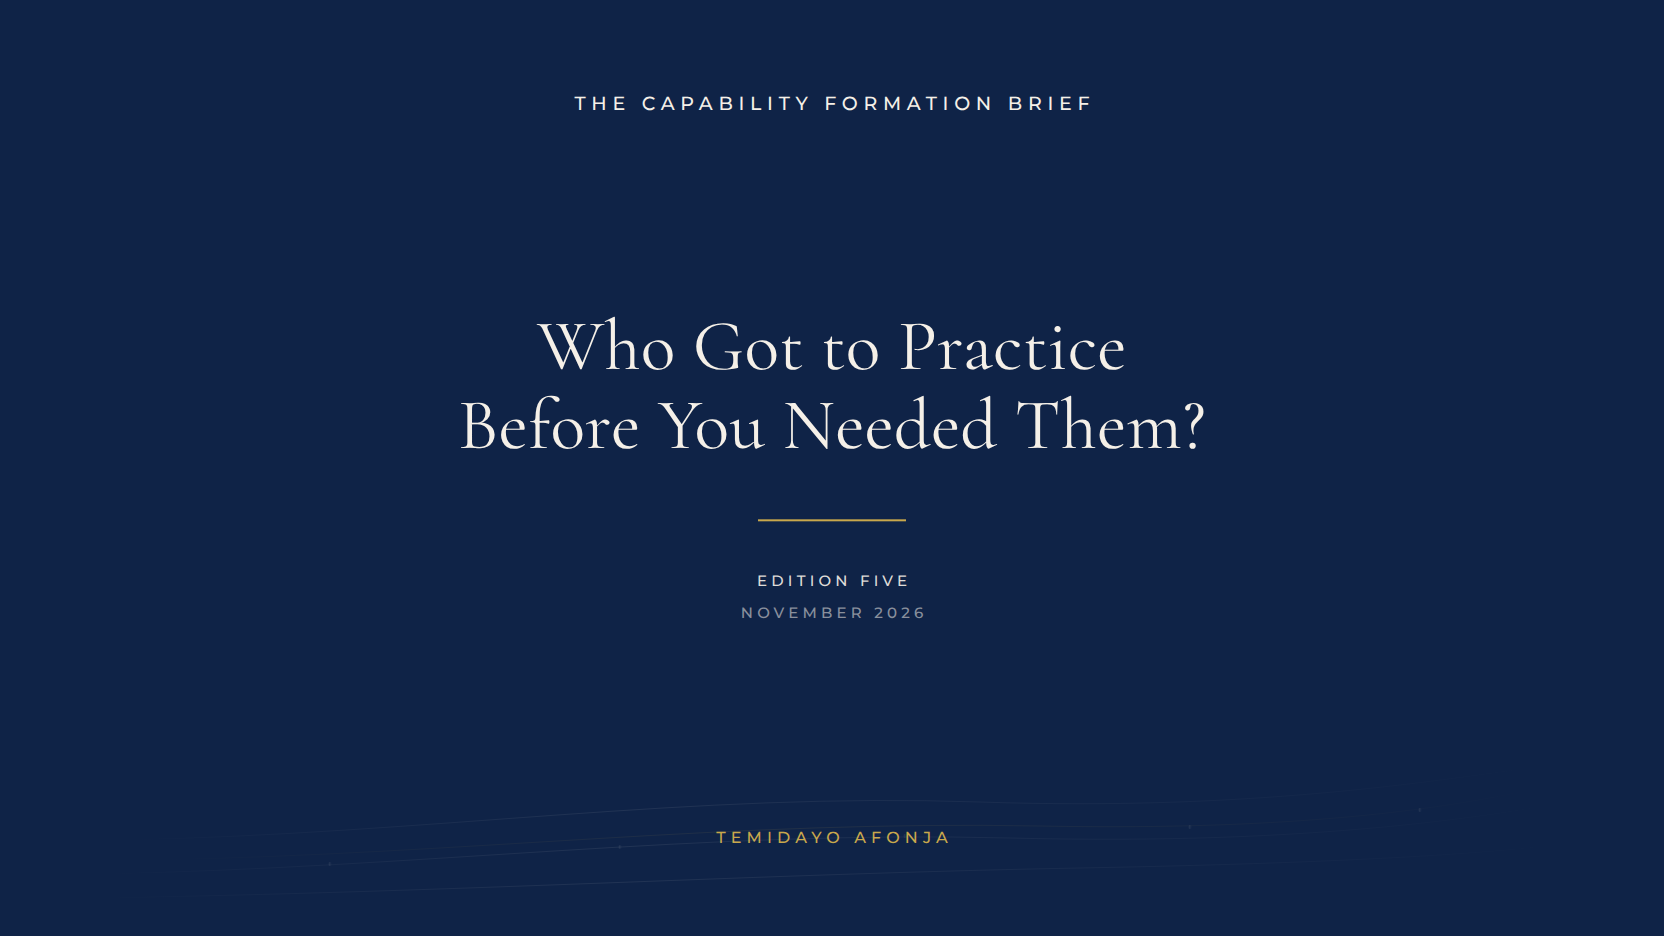
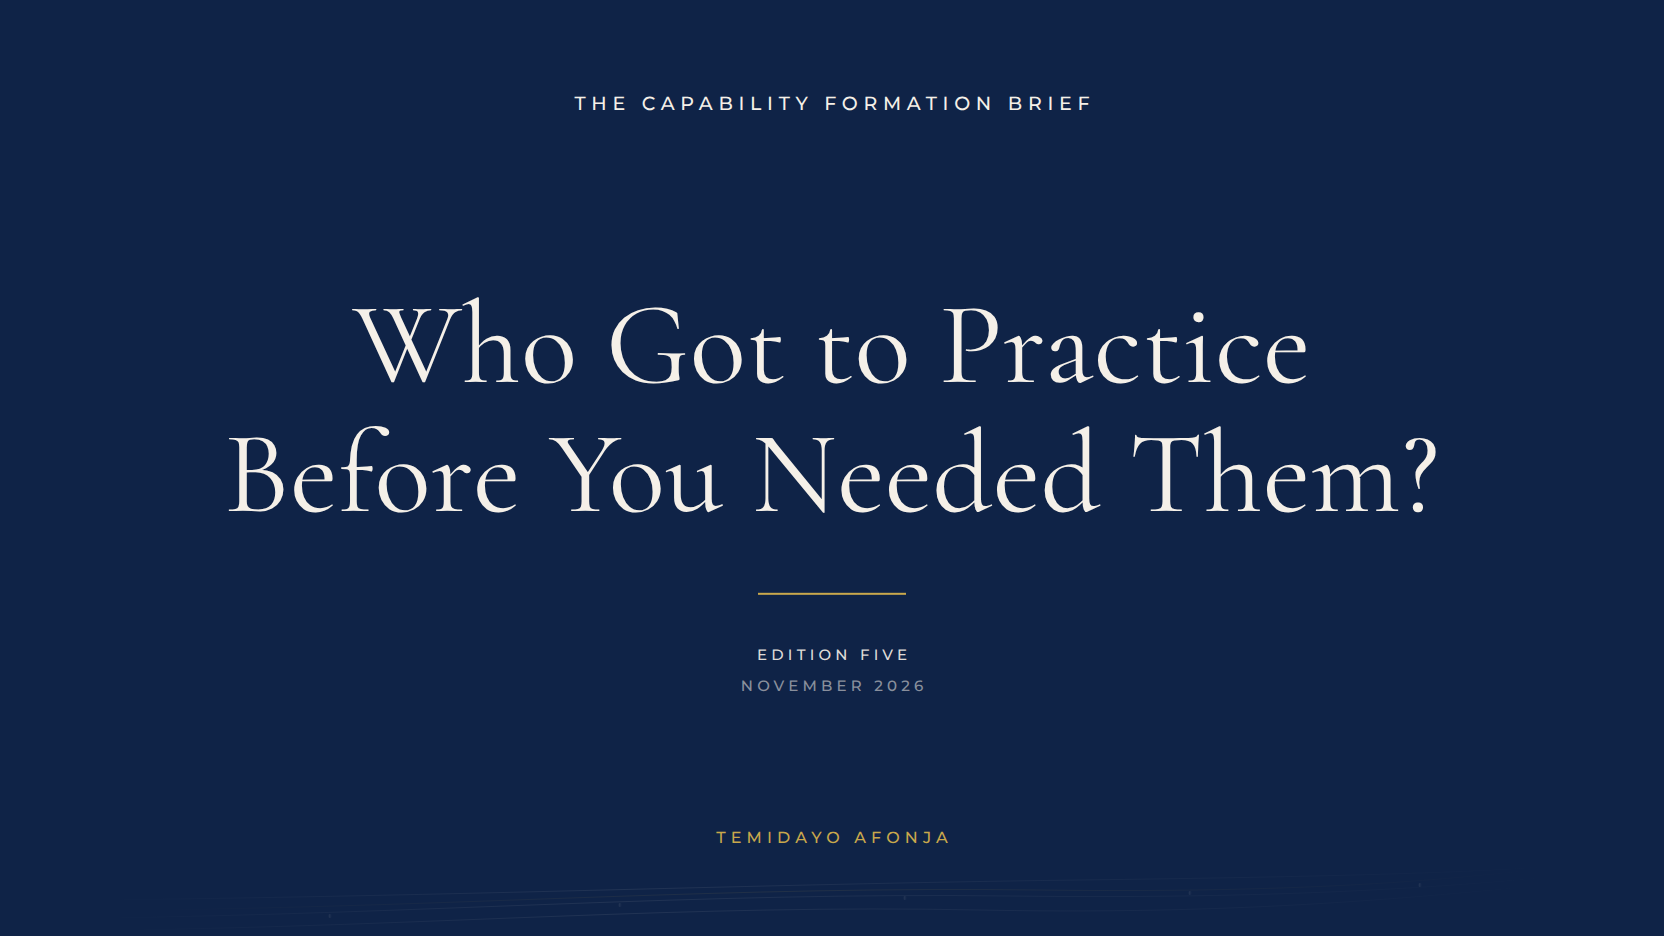
Re-export the November and October covers, and check exports against each other
The November cover shipped with its title at 72px instead of the 117px the
other two use, which is why it read as a lighter, smaller cover. It was not a
design choice. The previous build was piped through head, the render was
killed by the closed pipe partway through writing the six PNGs, and the file
left on disk was from an earlier run against the buggy size fit. The October
motif variant was stale the same way, still carrying the hairlines in their
old position across the byline.

Nothing in the design changed. Re-running the build puts November's title at
the shared 117px, its longest line at 1205px against September's 1209 and
October's 1238, and its title block top at the same 297px as both.

A stale cover is invisible in review: it is one image, it looks deliberate,
and there is nothing to diff against. So covers/verify-covers.mjs now reads
the pixels back out of every export and fails if any cover's title width or
top edge falls outside the group. That is the check that would have caught
this before it went out.

Claude-Session: https://claude.ai/code/session_01CYREDb8LZXEyjGSXhtygrV

Changed region(s): [[0.125, 0.3098, 0.875, 0.5577], [0.4375, 0.6197, 0.5625, 0.7436]]

diff --git a/covers/README.md b/covers/README.md
@@ -10,6 +10,7 @@ edition stays in the same publication system as the July/August/September covers
 | `editions.json` | The copy. Publication line, title lines, edition, date, byline. |
 | `brief-cover.html` | The cover itself: one parameterised page, live DOM text. |
 | `build-covers.mjs` | Renders each edition to `output/` with Playwright. |
+| `verify-covers.mjs` | Reads the exported PNGs back and checks they are one family. |
 | `output/*.png` | The exported covers, 1664 × 936. |
 
 ## Build
@@ -24,6 +25,21 @@ node covers/build-covers.mjs edition-four    # a single edition, matched by slug
 Requires `playwright` (`npm i -D playwright`). The script serves the repo over a
 local http port so the `/fonts/` URLs inside `fonts.css` resolve to the site's
 self-hosted woff2 files; nothing is fetched from the network.
+
+## Verify
+
+```sh
+node covers/verify-covers.mjs
+```
+
+This reads the pixels back out of every exported PNG and reports where the title
+ink actually landed, failing if one cover is off the group. Run it after every
+build. A cover is a single image with no test around it, so a bad export looks
+exactly like a design decision — this is what tells the difference.
+
+Do not pipe the build's output through `head`; the render can be killed partway
+and leave a stale PNG behind that still looks plausible. That failure is the
+reason this check exists.
 
 ## The system
 
